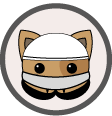
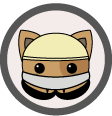
changed cats. added sound on reaching pillow

Changed region(s): [[0.1875, 0.2586, 0.8036, 0.5431], [0.0268, 0.0517, 0.9643, 0.9569]]

diff --git a/src/logic/ScoreManager.ts b/src/logic/ScoreManager.ts
@@ -90,41 +90,41 @@ export class ScoreManager {
 
   static SUMMARY_TEXTS = [
     {
-      firstLine: "בתור שליט מדינת החתולים הצלחת לא משהו",
-      secondLine: "כדי לקדם את חתוליך אתה צריך לאשר חוקים שעוזרים לאזרחים",
+      firstLine: "לא ממש הצלחת!",
+      secondLine: "כדאי שתאשר חוקים שמקדמים את החתולים.",
     },
     [
       {
         firstLine: "לא ממש הצלחת!",
-        secondLine: "אולי כדאי לחשוב על העברת חתולים ממגזרים נוספים.",
+        secondLine: "אולי כדאי לחשוב על העברת חוקים שיקדמו חתולים ממגזרים שונים.",
       },
       {
-        firstLine: "לא ממש הצלחת! אבל העברת מגוון של חתולים ממגדרים ומגזרים שונים",
-        secondLine: "כדאי לנסות לשפר.",
+        firstLine: "לא ממש הצלחת! אבל העברת מגוון של חתולים ממגדרים ומגזרים שונים.",
+        secondLine: "כדאי לנסות שוב.",
       },
       {
         firstLine: "לא ממש הצלחת!",
-        secondLine: " אבל אתה פלורליסט אמיתי והצטיינת בהעברת חתולים ממגזרים ומגדרים שונים.",
+        secondLine: "אבל אתה פלורליסט אמיתי והצטיינת בהעברת חתולים ממגזרים ומגדרים שונים.",
       },
     ],
     [
       {
         firstLine: "הצלחת לא רע! נראה שאפשר טוב יותר. ",
-        secondLine: "אולי כדאי לחשוב על העברת חתולים ממגזרים נוספים.",
+        secondLine: "אולי כדאי לחשוב על ההעברת חוקים שיקדמו חתולים ממגזרים שונים.",
       },
       {
-        firstLine: "הצלחת לא רע! והצלחת להעביר מגוון של חתולים ממגדרים ומגזרים שונים. ",
-        secondLine: " כדאי לנסות לשפר.",
+        firstLine: "הצלחת לא רע! העברת מגוון של חתולים ממגדרים ומגזרים שונים. ",
+        secondLine: "בטוח אפשר להשתפר",
       },
       {
         firstLine: "הצלחת לא רע!",
-        secondLine: " אבל אתה פלורליסט אמיתי והצטיינת בהעברת חתולים ממגזרים ומגדרים שונים.",
+        secondLine: "אתה פלורליסט אמיתי והצטיינת בהעברת חתולים ממגזרים ומגדרים שונים.",
       },
     ],
     [
       {
         firstLine: "הצלחת! אבל נראה שאפשר טוב יותר.",
-        secondLine: "אולי כדאי לחשוב על העברת חתולים ממגזרים נוספים. ",
+        secondLine: "אולי כדאי לחשוב על העברת חוקים שיקדמו חתולים ממגזרים נוספים.",
       },
       {
         firstLine:
@@ -144,7 +144,7 @@ export class ScoreManager {
       },
       {
         firstLine:
-          "כל הכבוד! אין כמוך... ואפילו הצלחת להעביר מגוון של חתולים ממגדרים ומגזרים שונים.",
+          "כל הכבוד! אין כמוך... העברת מגוון של חתולים ממגדרים ומגזרים שונים.",
         secondLine: "כדאי לשתף את התוצאה.",
       },
       {

diff --git a/src/helpers/Sounds.tsx b/src/helpers/Sounds.tsx
@@ -21,25 +21,6 @@ const SOUNDS = {
   ],
   win: { src: ["/sounds/oneCatWin.mp3"], volume: 0.2 },
   lose: { src: ["/sounds/oneCatLose.mp3"], volume: 0.2 },
-  whenReachinCouch: {
-    src: [
-      { src: ["/sounds/WhenReachingCouchMiew_.wav"], volume: 0.2 },
-      { src: ["/sounds/WhenReachingCouchMiew_-01.wav"], volume: 0.2 },
-      { src: ["/sounds/WhenReachingCouchMiew_-02.wav"], volume: 0.2 },
-      { src: ["/sounds/WhenReachingCouchMiew_-03.wav"], volume: 0.2 },
-      { src: ["/sounds/WhenReachingCouchMiew_-04.wav"], volume: 0.2 },
-      { src: ["/sounds/WhenReachingCouchMiew_-05.wav"], volume: 0.2 },
-      { src: ["/sounds/WhenReachingCouchMiew_-06.wav"], volume: 0.2 },
-      { src: ["/sounds/WhenReachingCouchMiew_-07.wav"], volume: 0.2 },
-      { src: ["/sounds/WhenReachingCouchMiew_-08.wav"], volume: 0.2 },
-      { src: ["/sounds/WhenReachingCouchMiew_-09.wav"], volume: 0.2 },
-      { src: ["/sounds/WhenReachingCouchMiew_-10.wav"], volume: 0.2 },
-      { src: ["/sounds/WhenReachingCouchMiew_-11.wav"], volume: 0.2 },
-      { src: ["/sounds/WhenReachingCouchMiew_-12.wav"], volume: 0.2 },
-      { src: ["/sounds/WhenReachingCouchMiew_-13.wav"], volume: 0.2 },
-      { src: ["/sounds/WhenReachingCouchMiew_-14.wav"], volume: 0.2 },
-    ],
-  },
   newLaw: [
     { src: ["/sounds/NewLaw.wav"], volume: 0.2 },
     { src: ["/sounds/NewLaw-01.wav"], volume: 0.2 },

diff --git a/src/helpers/GameContext.tsx b/src/helpers/GameContext.tsx
@@ -17,6 +17,7 @@ export function GameProvider({ children }) {
   const [intervalHandler, setIntervalHandler] = useState<any>(undefined);
   const searchParams = new URLSearchParams(window.location.search);
   const { stopMusic, startMusic } = useMusic();
+
   const start = () => {
     const game = getGameFromURL();
     setGame(game);
@@ -27,10 +28,11 @@ export function GameProvider({ children }) {
     )
       startMusic();
     const interval = setInterval(() => {
+      const numberOfFinished = game.characterManager.charactersDone().length;
       game.step();
       forceUpdate();
-      if (game.characterManager.catFinishedNow) {
-        playSound("whenReachinCouch", game.isGameMuted);
+      if (numberOfFinished < game.characterManager.charactersDone().length) {
+        playSound("meow", game.isGameMuted);
       }
       if (game.status === "over") {
         clearInterval(interval);

diff --git a/src/components/Summary/Share.jsx b/src/components/Summary/Share.jsx
@@ -13,8 +13,6 @@ import ContentCopyIcon from "@mui/icons-material/ContentCopy";
 import DoneIcon from "@mui/icons-material/Done";
 import ShareIcon from "@mui/icons-material/Share";
 import {
-  FacebookShareButton,
-  FacebookIcon,
   TwitterShareButton,
   TwitterIcon,
   WhatsappShareButton,
@@ -75,9 +73,6 @@ export default function Share(props) {
         </DialogTitle>
         <DialogContent>
           <Stack direction="row" justifyContent="space-evenly">
-            <FacebookShareButton url={url} quote={text}>
-              <FacebookIcon size={48} round />
-            </FacebookShareButton>
             <TwitterShareButton url={url} title={text}>
               <TwitterIcon size={48} round />
             </TwitterShareButton>

diff --git a/src/logic/CharacterManager.ts b/src/logic/CharacterManager.ts
@@ -41,14 +41,11 @@ export default class CharacterManager {
   }
 
   move() {
-    let previousDoneCats = this.charactersDone().length+0
-    console.log("previousDoneCats", previousDoneCats);
-    
+    let previousDoneCats = this.charactersDone().length+0   
     this.catFinishedNow = false
      this.characters
       .filter((charcter) => charcter.location < Game.TRACK_END)
       .forEach((charcter) =>charcter.move(Game.STEP));
-      console.log("this.charactersDone().length", this.charactersDone().length);
 
    if (this.charactersDone().length !== previousDoneCats){
     this.catFinishedNow = true;
